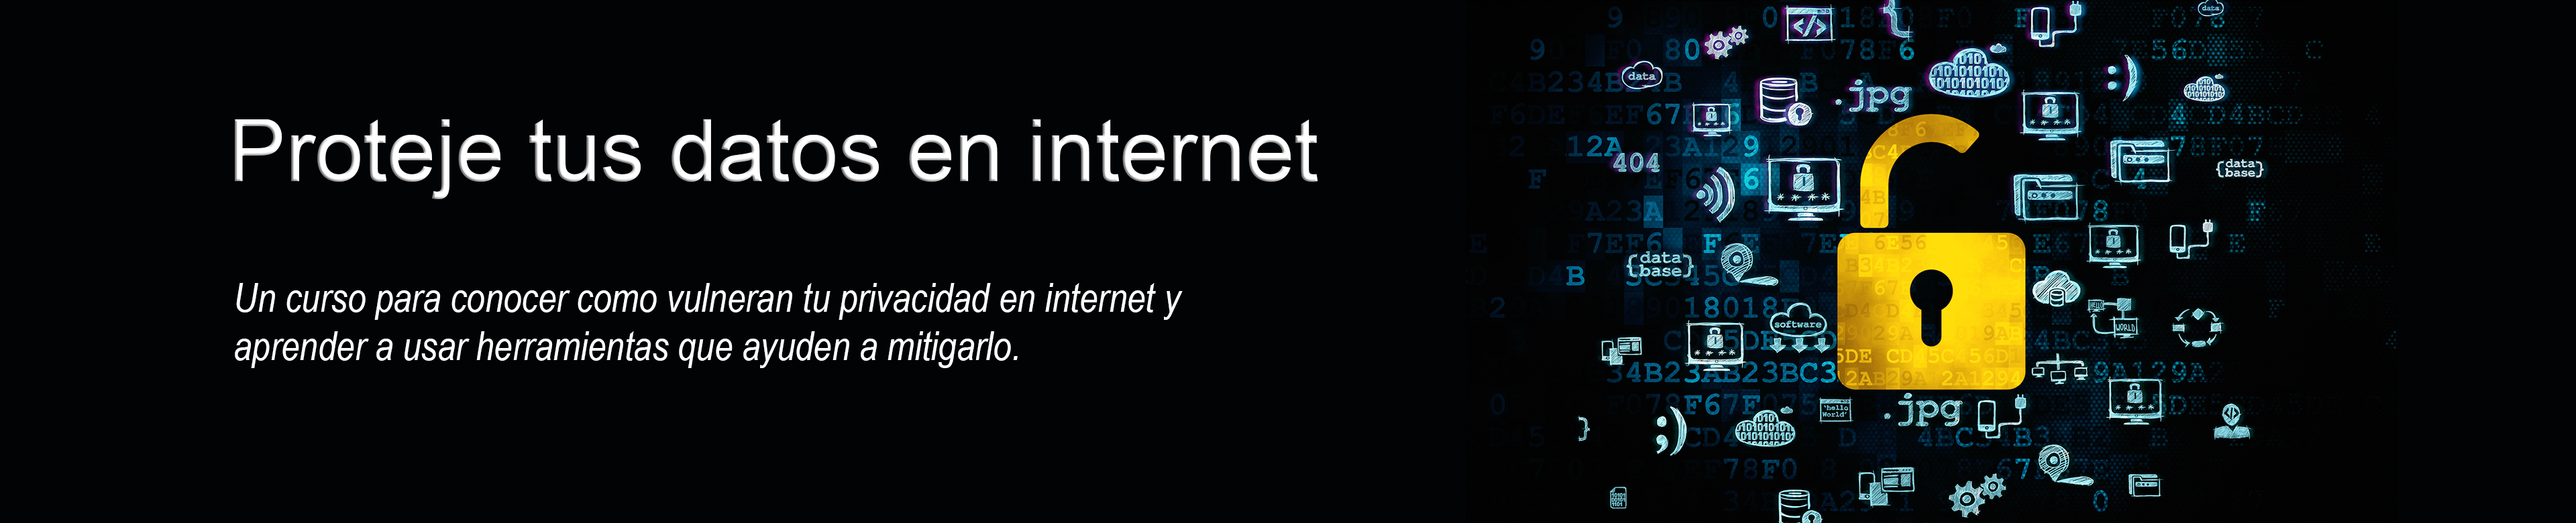
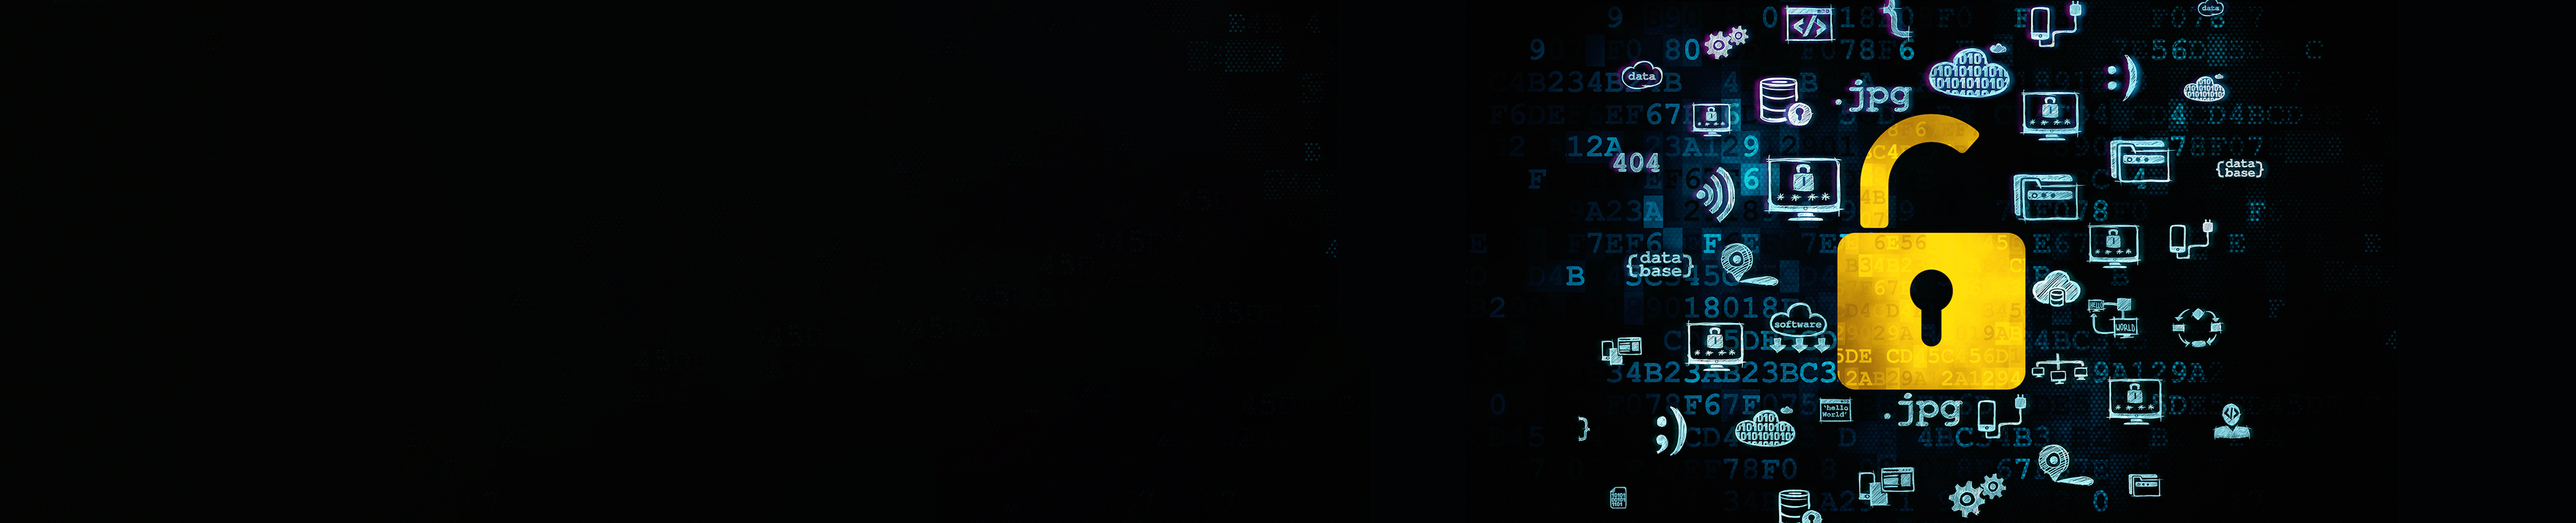
pequeño cambio para adaptarlo a lo del titulo

Changed region(s): [[0.0938, 0.2154, 0.5312, 0.3692], [0.0938, 0.5538, 0.4688, 0.6154], [0.0938, 0.6462, 0.4062, 0.7077]]

diff --git a/index.md b/index.md
@@ -2,8 +2,8 @@
 layout: index
 published: true
 ---
-Proteje tus datos en internet es un curso creado creado para que el usuario aprenda sobre qué sucede con sus datos mientras navega por internet.
-Más concretamente, se tratarán los siguientes apartados :
+Proteje tus datos en internet es un curso creado para que el usuario aprenda como se vulnera su privacidad en internet
+y que herramientas puede usar para mitigarlo. Más concretamente, se tratarán los siguientes apartados :
 
 * **Qué datos recopilan terceros de los usuarios**
 * **Por qué y para qué un tercero querría recopilar sus datos**
